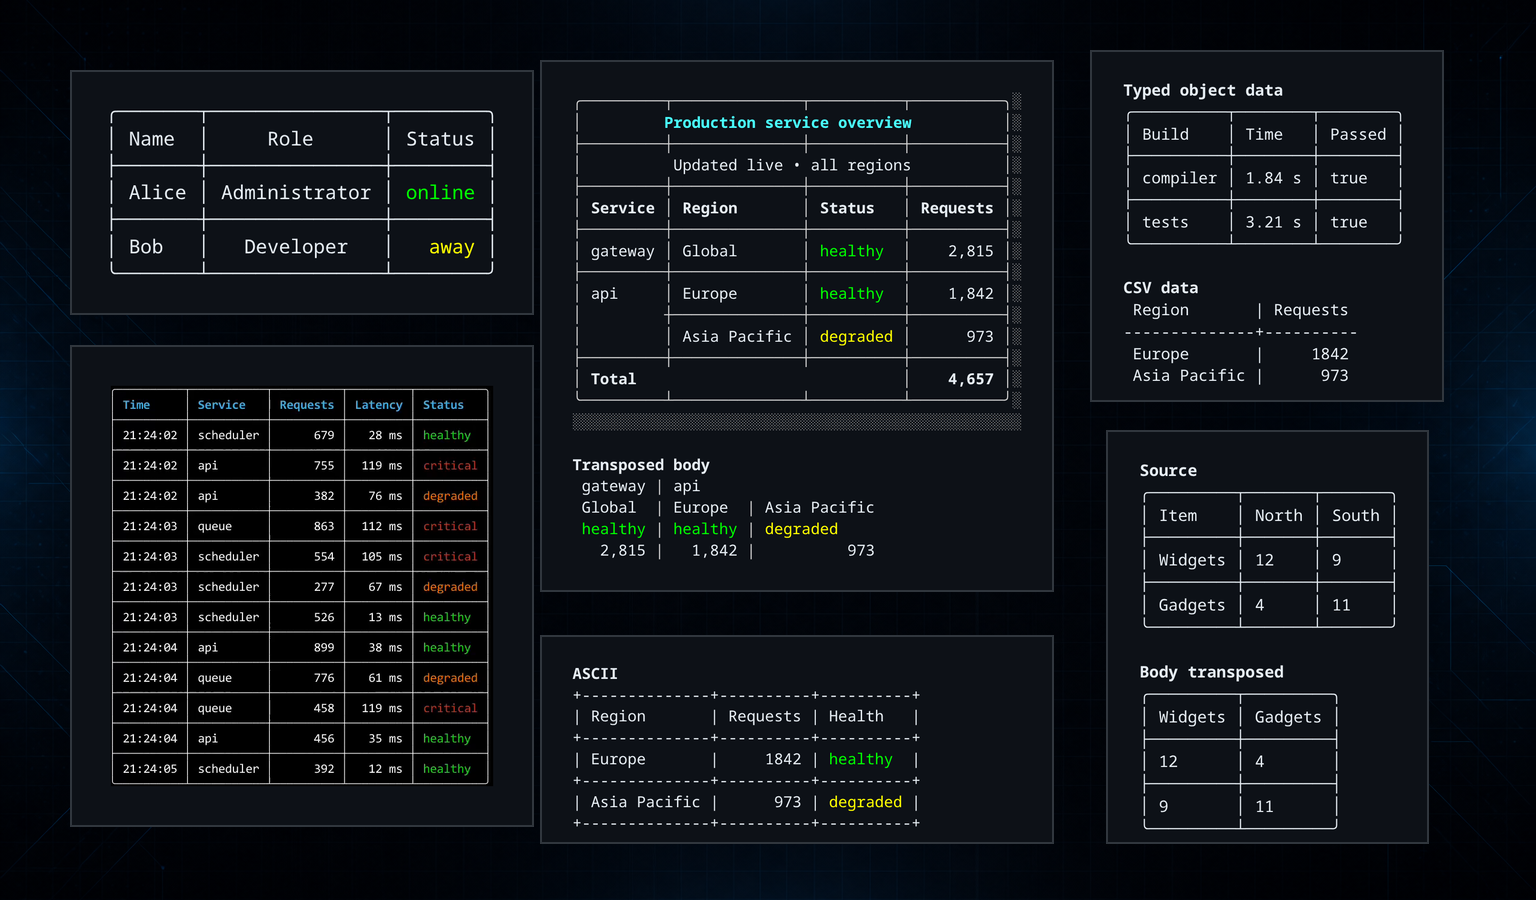
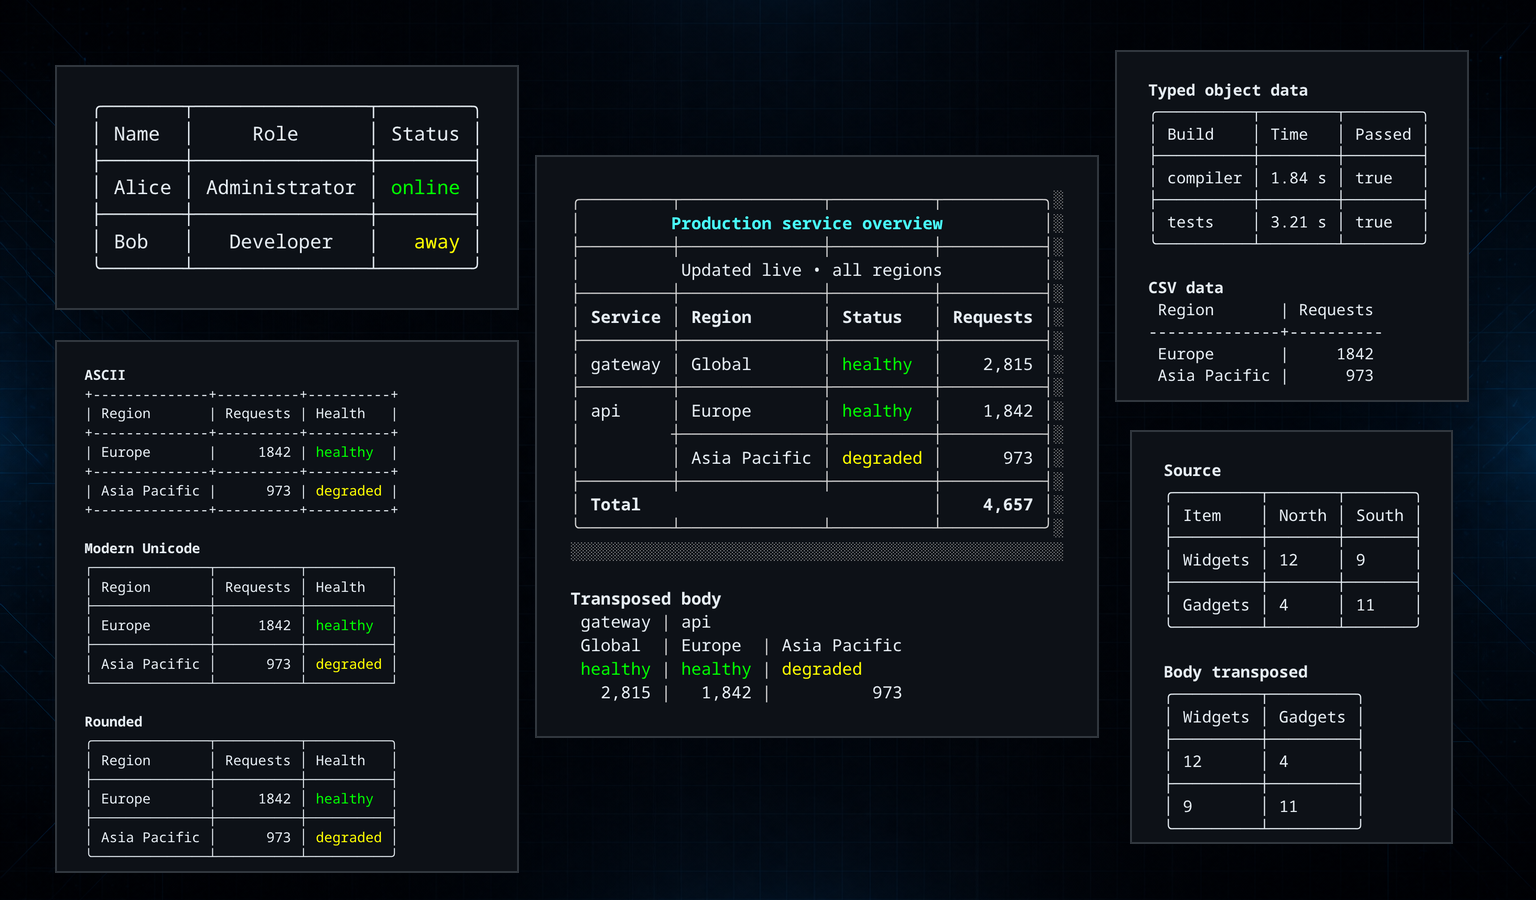
Add csv viewer example

diff --git a/README.md b/README.md
@@ -8,13 +8,19 @@ has no import-time side effects, and understands ANSI styling, OSC hyperlinks,
 Unicode, and terminal-cell width.
 
 <p align="center">
+  <img src="examples/images/live_data_table.gif"
+       alt="Animated rolling live table with styled service metrics"
+       width="650">
+</p>
+
+<p align="center">
   <img src="examples/images/hero-collage.png"
-       alt="Collage of terminal_tables themes, advanced layouts, data adapters, transformations, and live output"
+       alt="Collage of terminal_tables themes, advanced layouts, data adapters, and transformations"
        width="1100">
 </p>
 
 - Nim 2.0.0 or newer
-- `terminal_styles` 0.1.0 or newer, installed from GitHub
+- [`terminal_styles`](https://github.com/titanomachy/terminal-styles) 0.1.0 or newer, installed from GitHub
 - No runtime dependencies beyond `terminal_styles`
 
 ## Contents
@@ -315,6 +321,36 @@ list. Detailed contracts and error behavior are in
        width="560">
 </p>
 
+### Interactive CSV viewer
+
+The current APIs are enough to build a compact,
+[csvlens-inspired](https://github.com/YS-L/csvlens) viewer. The example combines
+CSV parsing, a height-aware row and column viewport, selected cell styling,
+responsive full-screen redraws, and Nim's standard terminal input:
+
+```sh
+nim c -r --path:src examples/csv_viewer.nim -- examples/data/service_metrics.csv
+```
+
+The repository includes
+[`service_metrics.csv`](examples/data/service_metrics.csv), with enough rows
+and columns to exercise both viewport directions. Run the viewer without a
+filename to use its embedded sample data. Use `h`, `j`, `k`, and `l` to move,
+`g`/`G` to jump to the first or last row, `0`/`$` for the first or last column,
+`r` to reset, Enter to print the selected value, and `q` to quit.
+
+<p align="center">
+  <img src="examples/images/csv_viewer.png"
+       alt="Interactive terminal CSV viewer showing service metrics and keyboard controls"
+       width="1000">
+</p>
+
+This demonstrates that `terminal_tables` can provide the rendering layer for
+an interactive CSV application. A full csvlens-class viewer still needs an
+application/TUI layer for cross-platform key events, efficient virtualized
+data access, search and filtering prompts, sorting, frozen columns, row marks,
+clipboard integration, streaming input, and file watching.
+
 `markdownTheme` produces Markdown-style terminal text. Semantic Markdown and
 HTML exporters are intentionally deferred until advanced spans, panels,
 multiline values, styling, and hyperlinks have an explicit lossless contract.
@@ -429,6 +465,7 @@ Every public feature family has a finite, runnable example:
 |---|---|
 | [`basic_table.nim`](examples/basic_table.nim) | Core model, rounded theme, color, and alignment |
 | [`advanced_tables.nim`](examples/advanced_tables.nim) | Selectors, panels, spans, decoration, and transpose |
+| [`csv_viewer.nim`](examples/csv_viewer.nim) | Interactive CSV viewport, cell selection, and keyboard navigation |
 | [`data_adapters.nim`](examples/data_adapters.nim) | Typed objects, CSV, and JSON |
 | [`transform_tables.nim`](examples/transform_tables.nim) | Transpose, split, composition, and duplication |
 | [`live_data_table.nim`](examples/live_data_table.nim) | Responsive rolling live data and terminal restoration |

diff --git a/docs/public-api.md b/docs/public-api.md
@@ -7,13 +7,13 @@ the public feature families without requiring the package to be installed.
 | API family | Defining modules | Runnable examples |
 |---|---|---|
 | Models, themes, rendering | `tables`, `themes`, `renderers` | `basic_table.nim`, `all_tables.nim` |
-| Live and rolling tables | `live_tables` | `live_data_table.nim` |
+| Live and rolling tables | `live_tables` | `live_data_table.nim`, `csv_viewer.nim` |
 | Runtime builders | `builders` | `all_tables.nim` |
 | Layout, spans, panels, shadows | `layouts`, `tables`, `renderers` | `advanced_tables.nim`, `all_tables.nim` |
 | Selectors and modifiers | `selectors`, `modifiers` | `advanced_tables.nim`, `all_tables.nim` |
 | Rotation, extraction, and composition | `transformations` | `transform_tables.nim`, `all_tables.nim` |
 | Typed object conversion | `typed_data` | `data_adapters.nim`, `all_tables.nim` |
-| CSV and JSON input | `csv_adapter`, `json_adapter` | `data_adapters.nim`, `all_tables.nim` |
+| CSV and JSON input | `csv_adapter`, `json_adapter` | `csv_viewer.nim`, `data_adapters.nim`, `all_tables.nim` |
 
 The examples use `when isMainModule` and relative source imports, so each is
 both documentation and an executable development check. Exact output and
